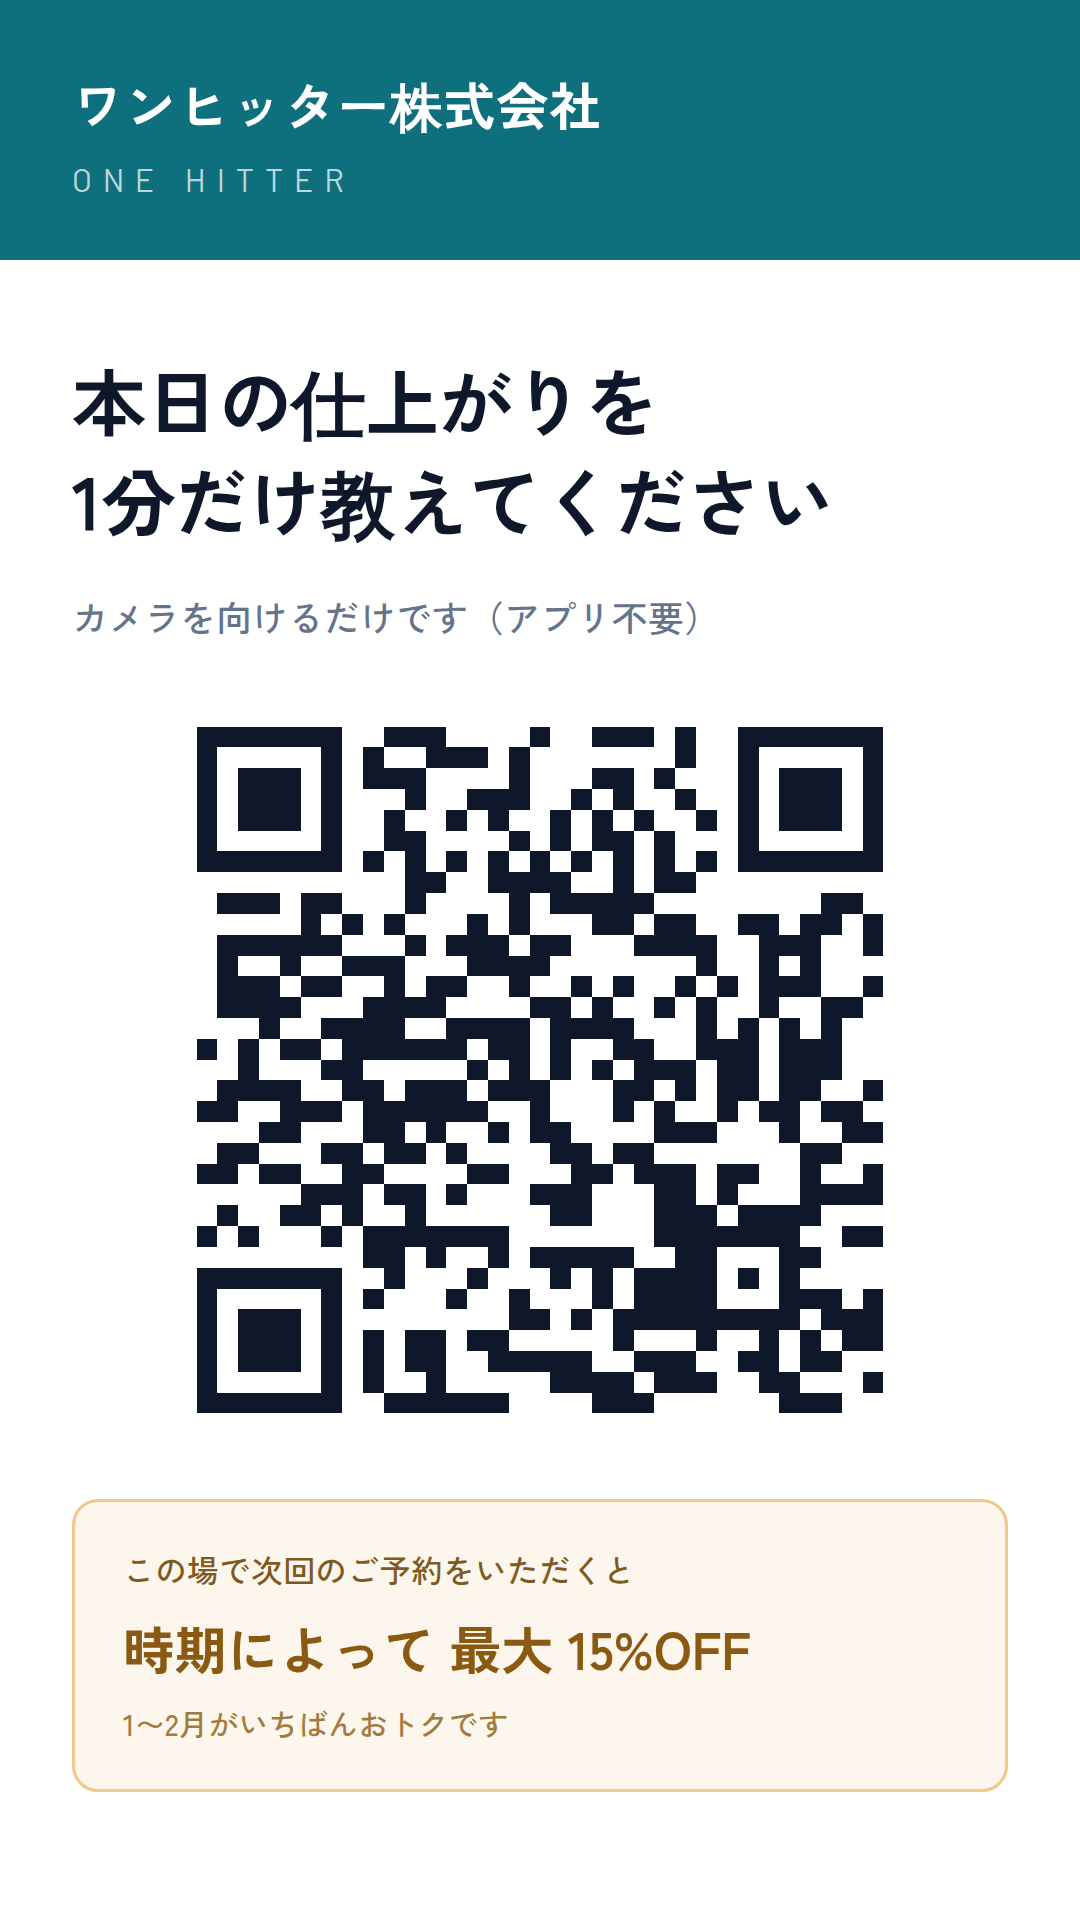
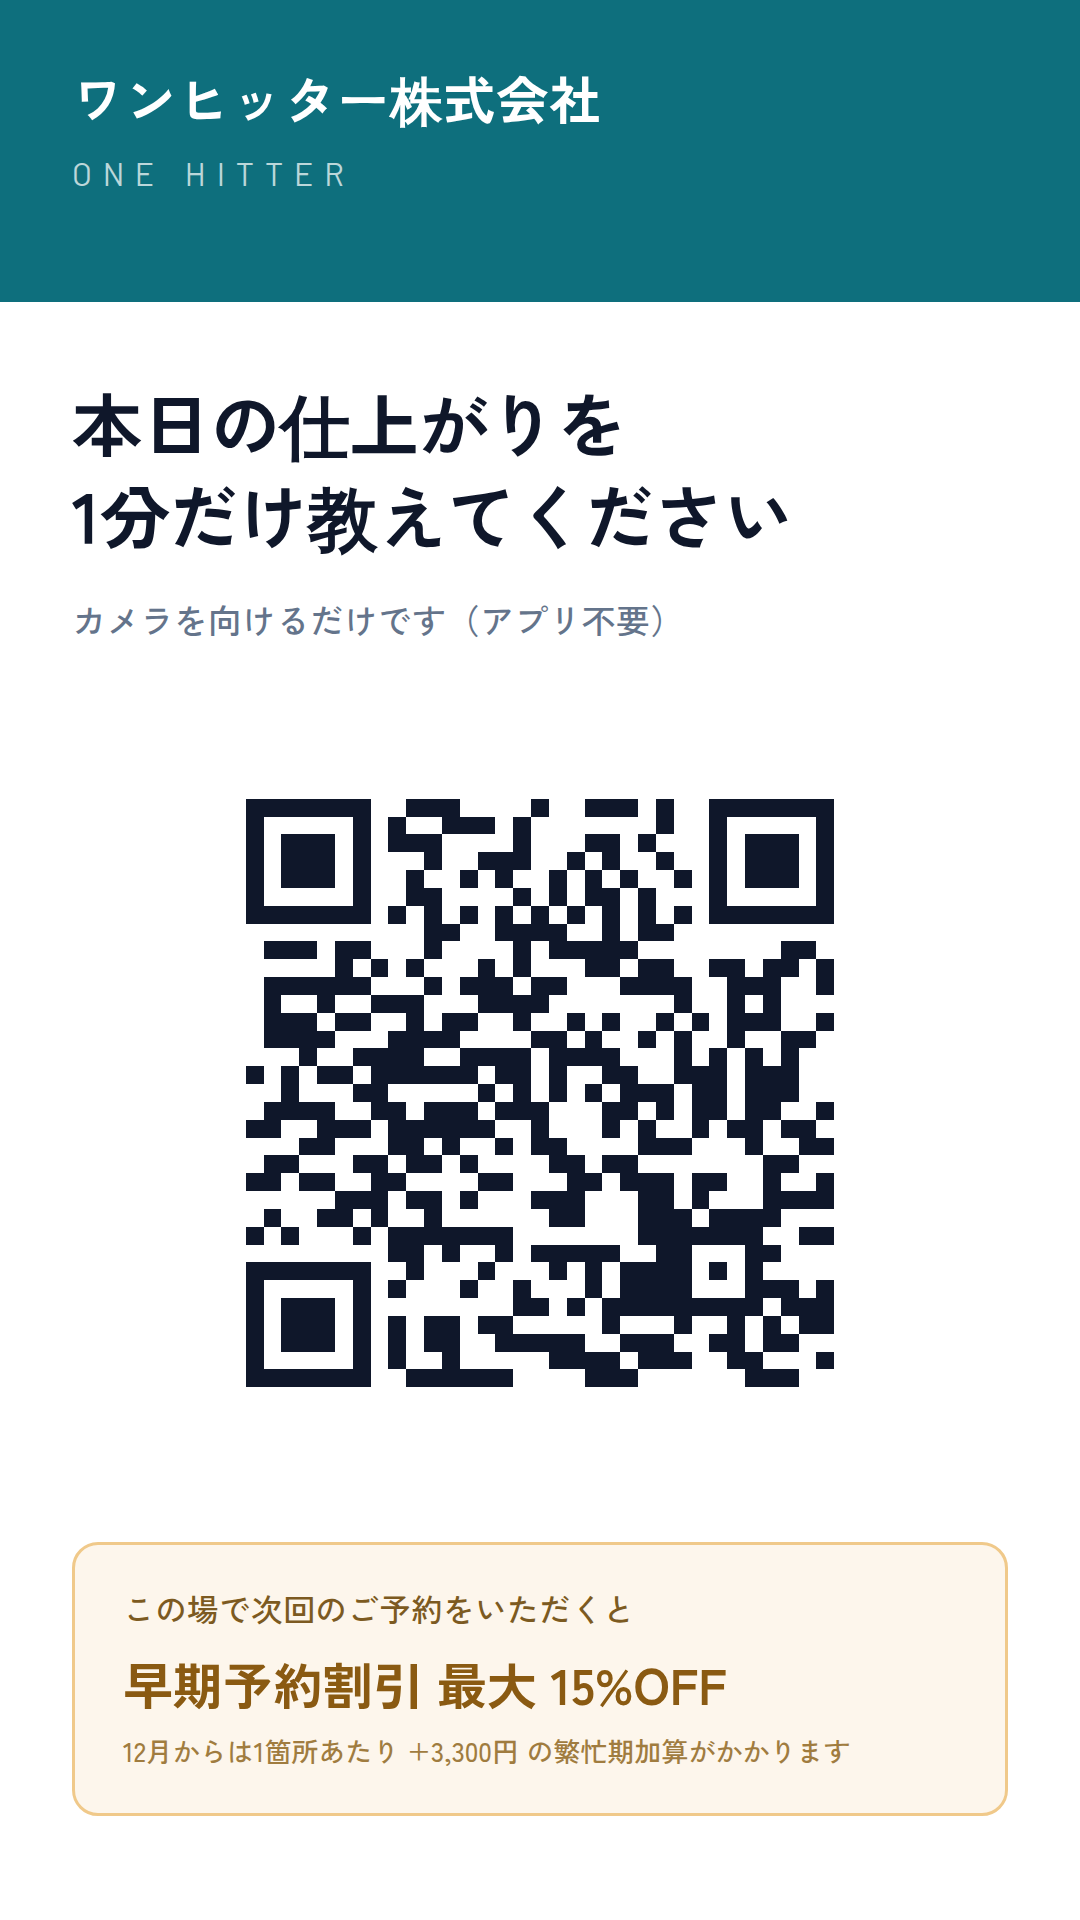
アンケートQRカードの訴求文を現行キャンペーンに合わせ、担当者名の欠けを修正
カードの「1〜2月がいちばんおトクです」を差し替えた。理由は2つ。

1. いま現場で言ってもらっている内容と矛盾する。渡辺さんには「11月までに
   ご予約いただければ12月からの繁忙期加算がかからない」と案内してもらって
   いるのに、カードは1〜2月へ誘導していた。同じ現場で相反する2つの
   メッセージが出るうえ、埋めたい10〜12月から売上が抜ける。

2. そもそも根拠が弱い。繁忙期加算の対象月は5・6・7・12月なので、
   1〜4月と8〜11月はどれも加算なしで同条件。1〜2月が特別おトクではない。

「早期予約割引 最大15%OFF ／ 12月からは1箇所あたり+3,300円の繁忙期加算が
かかります」に変更した。

あわせて、画像下端で「担当：渡辺」が欠けていたのを直した。フレックスの
高さ計算に左右されていたため、ヘッダー側へ移した。QRのデコードと
リンク先の応答も確認済み。

Claude-Session: https://claude.ai/code/session_01Bt8QH7kLFJ122YUdL5xSdF

diff --git a/tools/make-survey-qr.py b/tools/make-survey-qr.py
@@ -62,38 +62,40 @@ CARD_HTML = """<!doctype html>
 <style>
 {fontcss}
 * {{ margin:0; padding:0; box-sizing:border-box; }}
-html, body {{ width:1080px; height:1920px; }}
+html, body {{ width:1080px; height:1920px; overflow:hidden; }}
 body {{
   font-family:'Zen Kaku Gothic New','Noto Sans JP',sans-serif;
   background:#fff; color:#0f172a;
   display:flex; flex-direction:column;
+  position:relative;
 }}
 .head {{
   background:#0e6f7d; color:#fff;
-  padding:66px 72px 60px;
+  padding:60px 72px 52px;
 }}
 .head .name {{ font-size:52px; font-weight:700; letter-spacing:.02em; }}
 .head .en {{
   font-family:'Barlow',sans-serif;
   font-size:32px; letter-spacing:.34em; margin-top:16px; opacity:.72;
 }}
-.body {{ flex:1; padding:96px 72px 0; display:flex; flex-direction:column; }}
-h1 {{ font-size:74px; font-weight:700; line-height:1.35; letter-spacing:-.01em; }}
-.sub {{ font-size:36px; color:#64748b; margin-top:34px; }}
-.qrwrap {{ flex:1; display:flex; align-items:center; justify-content:center; }}
-.qrwrap img {{ width:770px; height:770px; image-rendering:pixelated; }}
+.body {{ flex:1; padding:80px 72px 72px; display:flex; flex-direction:column; min-height:0; }}
+h1 {{ font-size:70px; font-weight:700; line-height:1.32; letter-spacing:-.01em; }}
+.sub {{ font-size:34px; color:#64748b; margin-top:28px; }}
+.qrwrap {{ flex:1; min-height:0; display:flex; align-items:center; justify-content:center; }}
+.qrwrap img {{ width:660px; height:660px; image-rendering:pixelated; }}
 .offer {{
   border:3px solid #f0c98a; background:#fdf6ec; border-radius:26px;
-  padding:44px 48px; margin-bottom:40px;
+  padding:40px 48px; margin-bottom:32px;
 }}
 .offer .lead {{ font-size:32px; color:#7c5a21; }}
-.offer .big {{ font-size:52px; font-weight:700; color:#8a5a12; margin-top:18px; }}
-.offer .note {{ font-size:30px; color:#a07c3f; margin-top:16px; }}
-.staff {{ font-size:28px; color:#94a3b8; padding-bottom:56px; }}
+.offer .big {{ font-size:50px; font-weight:700; color:#8a5a12; margin-top:16px; }}
+.offer .note {{ font-size:27px; color:#a07c3f; margin-top:14px; line-height:1.5; }}
+.staff {{ margin-top:22px; font-size:30px; color:#cfe6ea; letter-spacing:.04em; }}
 </style>
 <div class="head">
   <div class="name">ワンヒッター株式会社</div>
   <div class="en">ONE HITTER</div>
+  <div class="staff">{staff_line}</div>
 </div>
 <div class="body">
   <h1>本日の仕上がりを<br>1分だけ教えてください</h1>
@@ -101,10 +103,9 @@ h1 {{ font-size:74px; font-weight:700; line-height:1.35; letter-spacing:-.01em; 
   <div class="qrwrap"><img src="{qr}" alt=""></div>
   <div class="offer">
     <div class="lead">この場で次回のご予約をいただくと</div>
-    <div class="big">時期によって 最大 15%OFF</div>
-    <div class="note">1〜2月がいちばんおトクです</div>
+    <div class="big">早期予約割引 最大 15%OFF</div>
+    <div class="note">12月からは1箇所あたり +3,300円 の繁忙期加算がかかります</div>
   </div>
-  <div class="staff">{staff_line}</div>
 </div>
 """
 
